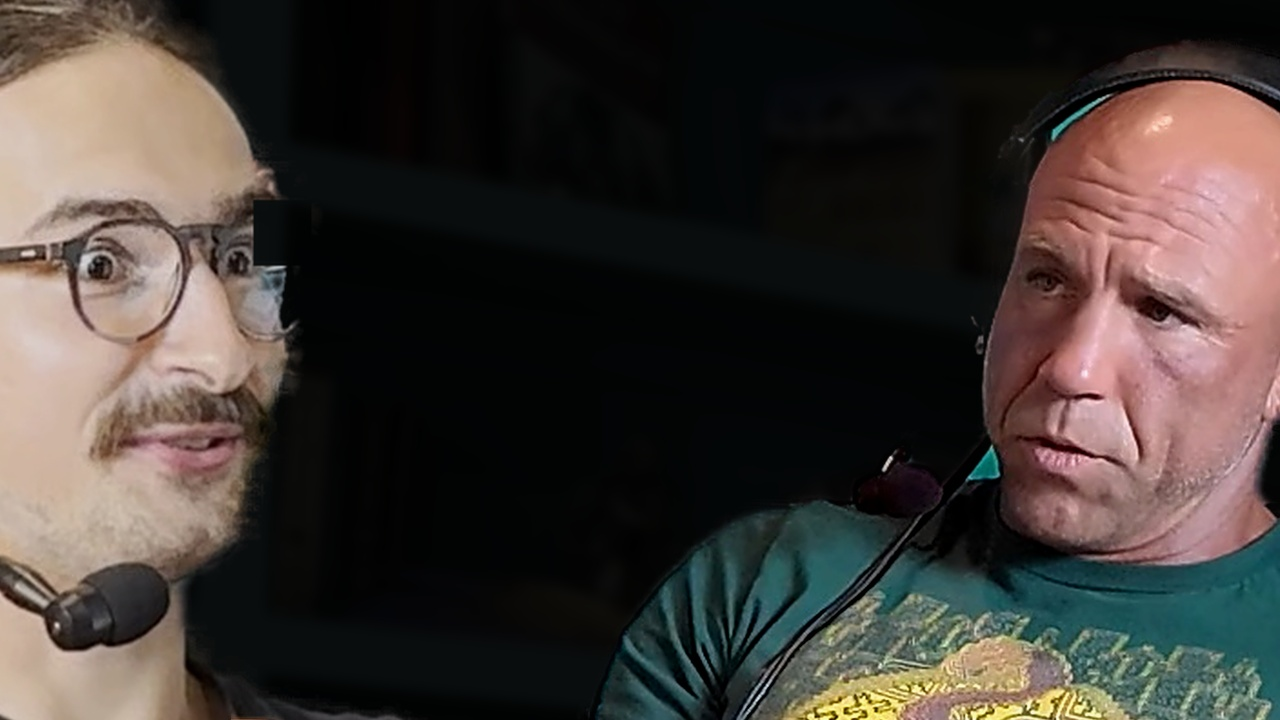
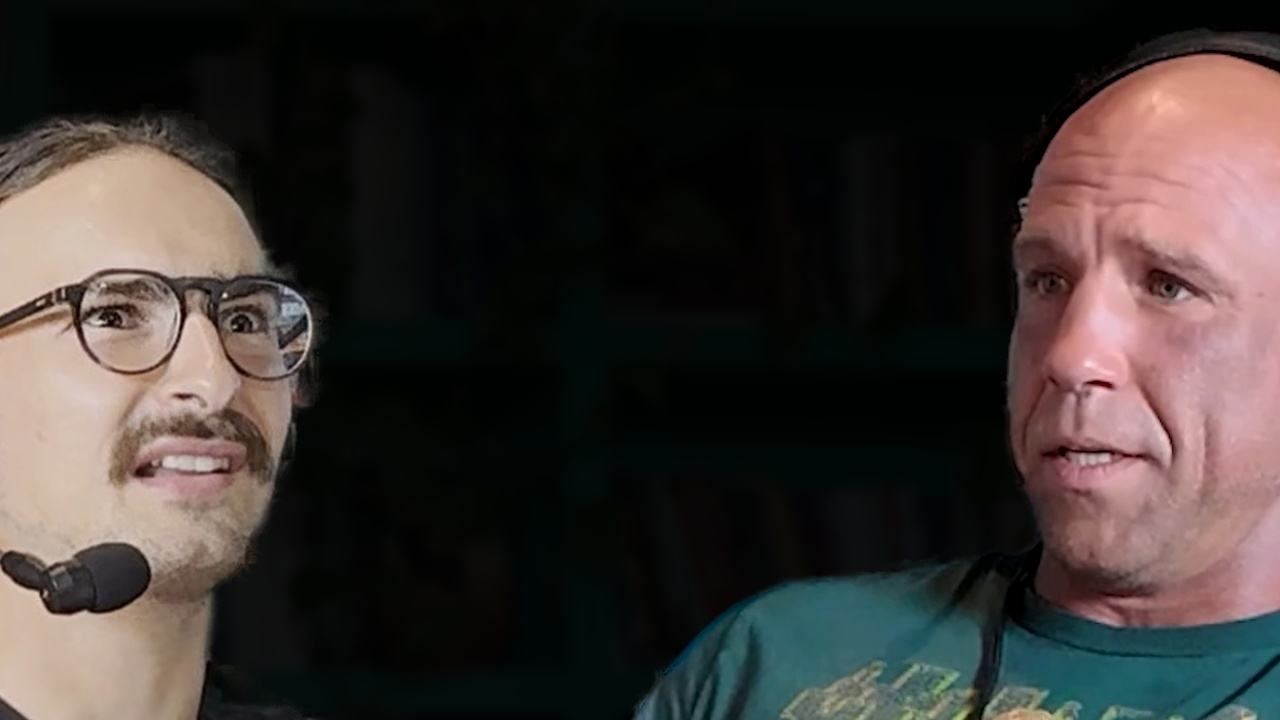
Kingsbury ohne Copy: Gesichter aus der neuen Datei
Er hat die Folge in 39 GB nachgereicht. Die Datei ist der fertige Schnitt,
keine hoeher aufgeloeste Kameradatei — gemessen an 455 Stichproben aus
29 Fenstern ueber die ganze Laenge.

- **Kyle** gewinnt deutlich: im Schnitt liegt seine Nahaufnahme nativ bei
  150–183 px Pupillenabstand. Vorher kam er aus der DJI-Datei mit 77 px und
  musste verdoppelt werden; jetzt wird er heruntergerechnet. Genommen ist
  6379,04 s — Stirn in Falten, Blick nach links zu Yannick, kein Lachen.
- **Yannick** gewinnt wenig: im Schnitt gibt es keine Nahaufnahme von ihm,
  in 455 Bildern genau eine Halbnahe. Seine eigene Kamera bleibt die Quelle.
  Diesmal aber dicht abgetastet — 195 Bilder statt 12 — und das beste liegt
  bei 91 px statt 81. 1,5× statt 1,9× Hochrechnung. Genommen ist 1510,97 s:
  Augen auf, Blick nach rechts zu Kyle.
- Der schwarze Fleck neben seiner Brille ist weg. Er stammte aus dem alten
  Freisteller, wo ein Regalrest zu einem Loch geschnitten worden war.
- Hintergrund neu, 1:1 aus einem menschenfreien 4K-Einzelbild derselben
  Totalen statt hochgerechnet.

Koepfe und Kinnlinie auf dem Mass der vorigen Fassung: Pupillenabstand
123/125 px, unter den Kinnen 147/157 px.

Claude-Session: https://claude.ai/code/session_01Qng36it9JR8kntKEjVEjXS

diff --git a/video/thumbnails/kingsbury-material.md b/video/thumbnails/kingsbury-material.md
@@ -122,3 +122,45 @@ Einen Freisteller, der aus einem fertigen Thumbnail kommt, darf man **nicht
 Anker greift ins Leere und der Kopf wird viel zu gross. Für solche Quellen
 über den **Pupillenabstand** rechnen:
 `box_h = 143 × gemessene_box_h / gemessener_pupillenabstand`.
+
+---
+
+## Nachtrag 30.10.: die 39-GB-Datei des Cutters vermessen
+
+Er hat die Folge noch einmal in besserer Qualitaet bekommen
+(`1RsATaaBMJO...`, 3840×2160, 129,8 min, 39,25 GB). Das ist **nicht** eine
+hoeher aufgeloeste Kameradatei, sondern der fertige Schnitt. Gemessen an
+455 Stichproben aus 29 Fenstern ueber die ganze Laenge:
+
+| Was im Schnitt vorkommt | Pupillenabstand |
+|---|---:|
+| Kyle, Nahaufnahme (eigene Kamera) | **150–183 px** |
+| Totale mit beiden, Kyle | 40–76 px |
+| Totale mit beiden, Yannick | 35–62 px |
+| Halbnahe auf Yannick (einmal in 455 Bildern) | 85 px |
+
+**Fuer Kyle ist das der grosse Gewinn.** Vorher kam er aus der DJI-Datei mit
+77 px und musste verdoppelt werden; jetzt liegt er nativ bei 165 px und wird
+**herunter**gerechnet. Kein Hochrechnen mehr.
+
+**Fuer Yannick aendert es nichts.** Im Schnitt gibt es keine Nahaufnahme von
+ihm — der Cutter hatte keine. Seine eigene Kamera bleibt die beste Quelle.
+
+### Seine eigene Kamera, diesmal dicht abgetastet
+
+195 Stichproben aus 12 Fenstern (vorher 12 Bilder): Pupillenabstand
+**65–96 px, Median 75**. Das vorher benutzte Bild lag bei 81 px, das
+jetzige bei 91 px — ein Achtel groesser, also 1,5× statt 1,9× Hochrechnung.
+Mehr gibt die Kamera nicht her: sie steht fest, er lehnt sich kaum vor.
+
+Dieselbe Lehre wie bei der DJI-Datei: **zwoelf Stichproben sind zu wenig.**
+
+### Was gebaut ist (30.10.)
+
+| | Quelle | Pupillenabstand roh → Bild |
+|---|---|---|
+| **Yannick** | eigene Kamera, 1510,97 s | 91 → 123 (1,4× hoch) |
+| **Kyle** | Schnittdatei, 6379,04 s | 165 → 125 (0,8× runter) |
+
+Hintergrund neu aus einem menschenfreien 4K-Einzelbild derselben Totalen
+(`_hintergrund-kingsbury-regal-4k.jpg`), 1:1 geschnitten statt hochgerechnet.
